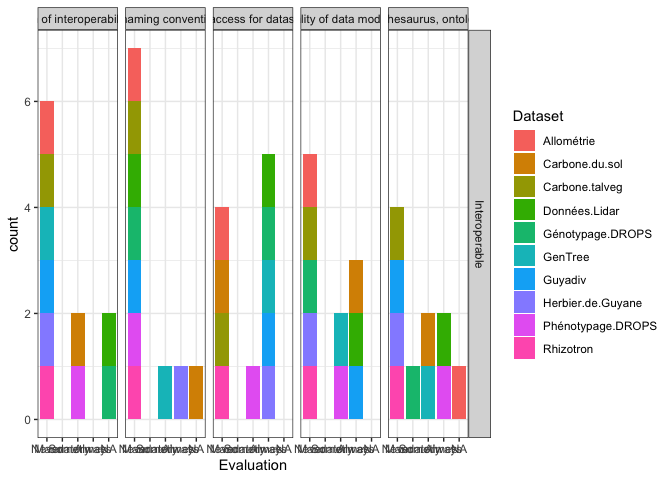
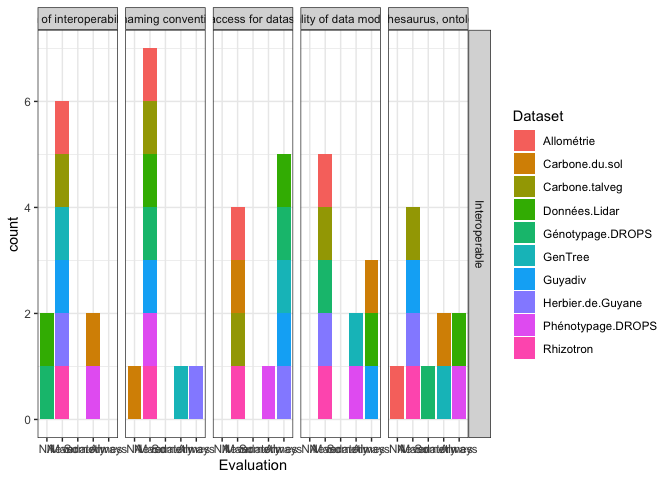
NA en premier dans l'ordre des facteurs

Changed region(s): [[0.0625, 0.0938, 0.7188, 0.875], [0.0312, 0.9062, 0.7188, 0.9688]]

diff --git a/Notebook.md b/Notebook.md
@@ -30,11 +30,13 @@ data_wide <- data %>%
 ## Classons les réponses possibles à chaque critère
 
 ``` r
-ordre_reponses <- c("Never", "Mandatory", "Sometimes", "Always")
-
 cols <- c("GenTree", "Phénotypage.DROPS", "Carbone.talveg", "Données.Lidar", "Herbier.de.Guyane", "Rhizotron", "Guyadiv", "Allométrie", "Carbone.du.sol", "Génotypage.DROPS")
 
-data_wide[,cols] <- lapply(data_wide[,cols], factor, levels = c("Never", "Mandatory", "Sometimes", "Always"))
+data_wide[,cols] <- lapply(data_wide[,cols], factor, levels = c("Never", "Mandatory", "Sometimes", "Always"), exclude = "", ordered = T)
+
+data_wide[,cols] <- lapply(data_wide[,cols], fct_explicit_na, na_level = "NA")
+
+data_wide[,cols] <- lapply(data_wide[,cols], factor, levels = c("NA", "Never", "Mandatory", "Sometimes", "Always"), exclude = "", ordered = T)
 ```
 
 ## Passons de données wide à des données narrow
